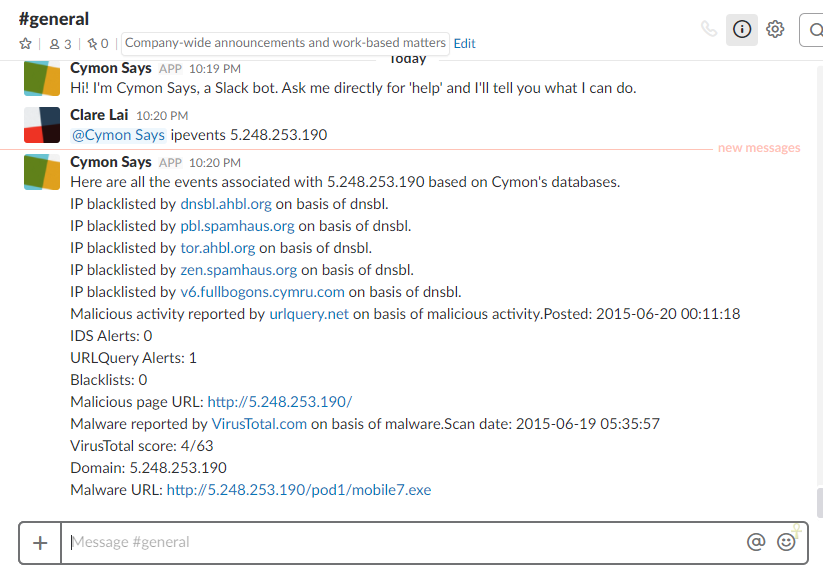
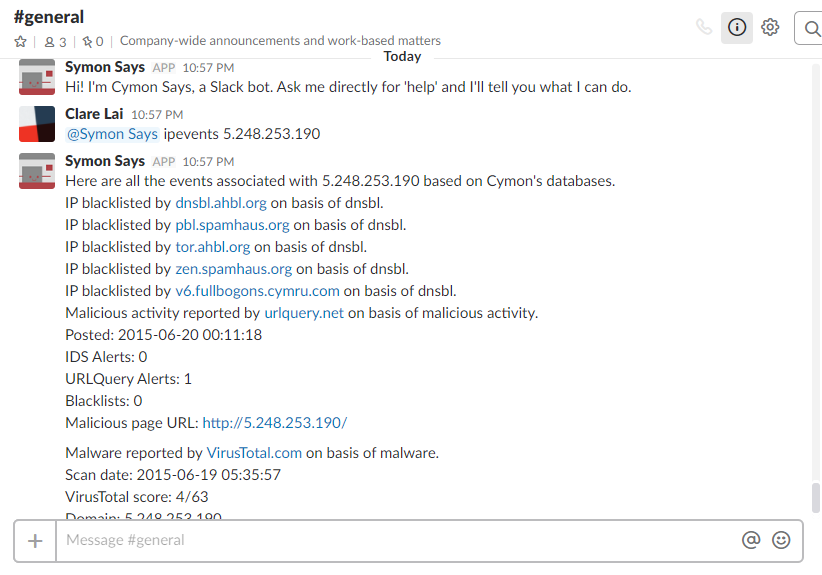
Updated example and requirements

Changed region(s): [[0.0, 0.0, 1.0, 1.0], [0.882, 0.0, 1.0, 0.0887], [0.8516, 0.2365, 0.9732, 0.2661]]

diff --git a/cymonbot.py b/cymonbot.py
@@ -74,7 +74,7 @@ def do_task(task, info):
                 " based on Cymon's databases.\n"
                 for result in r["results"]:
                     res += result["title"]+" on basis of "+result["tag"]+"."
-                    if result["description"]: res += result["description"]
+                    if result["description"]: res += "\n"+result["description"]+"\n"
                     res += "\n"
             else:
                 res = "There are no security events associated with this IP address."

diff --git a/README.md b/README.md
@@ -29,3 +29,7 @@ While Cymonbot is running, mention `@cymonbot` with the following commands:
 * `ipdomains [IP address]`: returns any domains associated with the IP address
 * `ipurls [IP address]`: returns any URLs associated with the IP address
 * `ipblacklist [tag]`: returns IP addresses blacklisted in the past day based on the tag (options are `malware`, `botnet`, `spam`, `phishing`, `malicious activity`, `blacklist`, `dnsbl`)
+
+Here's an example! 
+
+![Example of using Cymonbot in Slack](https://raw.githubusercontent.com/cxlai/cymonbot-for-slack/master/example.png)
